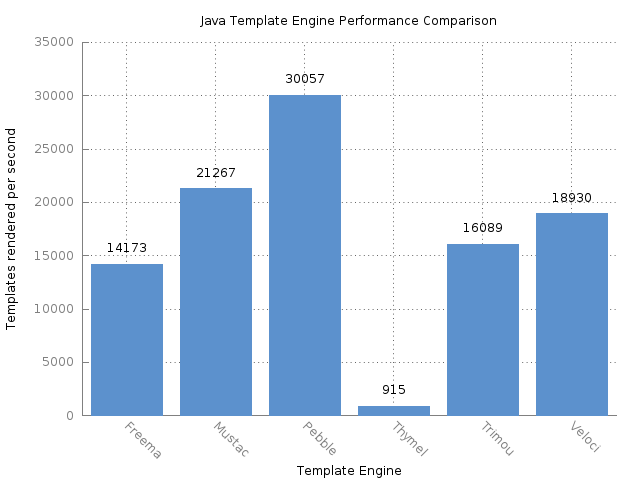
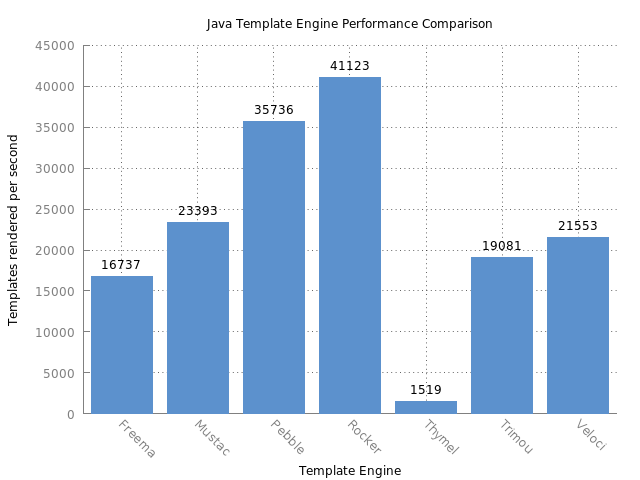
Added unit tests; updated results examples

diff --git a/src/main/java/com/mitchellbosecke/benchmark/Rocker.java b/src/main/java/com/mitchellbosecke/benchmark/Rocker.java
@@ -1,20 +1,20 @@
 package com.mitchellbosecke.benchmark;
 
-import com.mitchellbosecke.benchmark.BaseBenchmark;
 import com.mitchellbosecke.benchmark.model.Stock;
-import freemarker.cache.ClassTemplateLoader;
-import freemarker.template.Configuration;
-import freemarker.template.Template;
 import freemarker.template.TemplateException;
 import org.openjdk.jmh.annotations.Benchmark;
 import org.openjdk.jmh.annotations.Setup;
 
 import java.io.IOException;
-import java.io.StringWriter;
-import java.io.Writer;
 import java.util.List;
-import java.util.Map;
 
+/**
+ * Benchmark for Rocker template engine by Fizzed.
+ * 
+ * https://github.com/fizzed/rocker
+ * 
+ * @author joelauer
+ */
 public class Rocker extends BaseBenchmark {
 
     private List<Stock> items;

diff --git a/src/test/java/com/mitchellbosecke/benchmark/ExpectedOutputTest.java b/src/test/java/com/mitchellbosecke/benchmark/ExpectedOutputTest.java
@@ -31,6 +31,13 @@ public class ExpectedOutputTest {
         freemarker.setup();
         assertOutput(freemarker.benchmark());
     }
+    
+    @Test
+    public void testRockerOutput() throws IOException, TemplateException {
+        Rocker rocker = new Rocker();
+        rocker.setup();
+        assertOutput(rocker.benchmark());
+    }
 
     @Test
     public void testPebbleOutput() throws IOException, PebbleException {

diff --git a/README.md b/README.md
@@ -6,9 +6,10 @@ JMH benchmark for popular Java template engines:
 * [Freemarker](http://freemarker.org/)
 * [Mustache](https://github.com/spullara/mustache.java)
 * [Pebble](http://www.mitchellbosecke.com/pebble)
+* [Rocker](https://github.com/fizzed/rocker)
 * [Thymeleaf](http://www.thymeleaf.org/)
-* [Velocity](http://velocity.apache.org/)
 * [Trimou](http://trimou.org/)
+* [Velocity](http://velocity.apache.org/)
 
 Running the benchmark
 ======================
